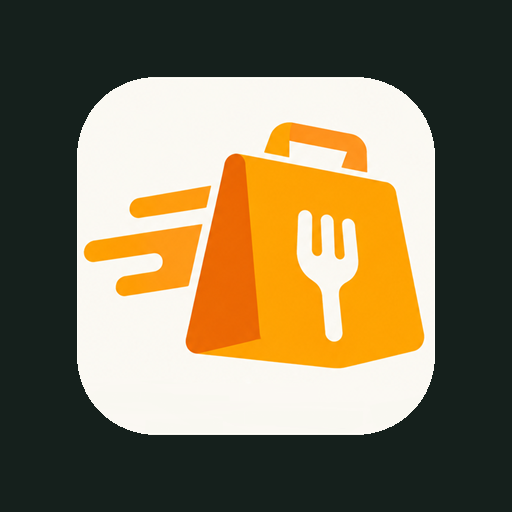
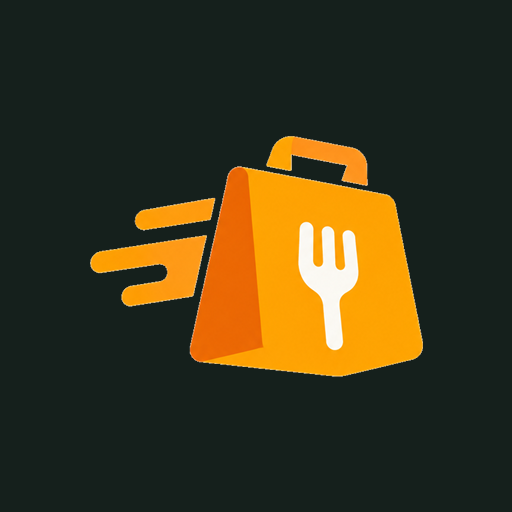
Фикс: maskable-иконки и логотип в шапке

diff --git a/src/components/TopBar.jsx b/src/components/TopBar.jsx
@@ -2,21 +2,46 @@ import { Link } from 'react-router-dom';
 import ThemeToggle from './ThemeToggle.jsx';
 import LangSwitch from './LangSwitch.jsx';
 import { PwaInstallButton } from './InstallBanner.jsx';
+import { ReceiptIcon } from './Icons.jsx';
 import { useT } from '../lib/i18n/store.js';
 
-// Ниже 1024px — тонкая полоска утилитных ссылок. От 1024px — полноценная шапка с логотипом.
+// Ниже 1024px — тонкая полоска: слева логотип-ссылка на главную, справа утилиты.
+// От 1024px — полноценная шапка с логотипом и подписью.
 export default function TopBar() {
   const t = useT();
   return (
     <div className="bg-paper border-b border-line">
-      <div className="flex items-center justify-end gap-2 px-3 py-1.5 text-xs lg:hidden">
+      <div className="flex items-center gap-1 px-3 py-1.5 text-xs lg:hidden">
+        <Link
+          to="/"
+          aria-label={t('topbar.home')}
+          title={t('topbar.home')}
+          className="mr-auto inline-flex h-9 w-9 shrink-0 items-center justify-center transition-opacity hover:opacity-80"
+        >
+          <img src="/symbol.png" alt="" className="h-9 w-9 object-contain" />
+        </Link>
+        {/* На узком экране текст «Мои заказы» не помещается — оставляем иконку
+            с подписью для скринридеров. */}
         <Link
           to="/my-orders"
-          className="inline-flex min-h-[40px] shrink-0 items-center whitespace-nowrap px-1 font-semibold text-muted hover:text-ink transition-colors"
+          aria-label={t('topbar.myOrders')}
+          title={t('topbar.myOrders')}
+          className="inline-flex h-9 w-9 shrink-0 items-center justify-center rounded-full text-muted transition-colors hover:text-ink sm:hidden"
+        >
+          <ReceiptIcon className="h-4 w-4" />
+        </Link>
+        <Link
+          to="/my-orders"
+          className="hidden min-h-[40px] shrink-0 items-center whitespace-nowrap px-1 font-semibold text-muted transition-colors hover:text-ink sm:inline-flex"
         >
           {t('topbar.myOrders')}
         </Link>
-        <PwaInstallButton />
+        {/* На самых узких экранах (320–359px) кнопка установки не помещается в один
+            ряд с логотипом и языками. Установку там предлагает нижний баннер,
+            поэтому в шапке прячем именно её — навигация важнее. */}
+        <div className="shrink-0 max-[359px]:hidden">
+          <PwaInstallButton />
+        </div>
         <LangSwitch />
         <ThemeToggle />
       </div>
@@ -26,7 +51,7 @@ export default function TopBar() {
           to="/"
           className="flex items-center gap-3 font-extrabold text-[31.5px] text-ink tracking-tight hover:opacity-90 transition-opacity"
         >
-          <img src="/symbol.png" alt="Заберу!" className="w-12 h-12 rounded-2xl object-contain" />
+          <img src="/symbol.png" alt="Заберу!" className="w-12 h-12 object-contain" />
           <span>Заберу!</span>
         </Link>
         <div className="flex items-center gap-6">

diff --git a/vite.config.js b/vite.config.js
@@ -14,6 +14,7 @@ export default defineConfig({
         'symbol.png',
         'icon-192.png',
         'icon-512.png',
+        'icon-192-maskable.png',
         'icon-512-maskable.png'
       ],
       workbox: {
@@ -51,11 +52,20 @@ export default defineConfig({
         start_url: '/',
         categories: ['food', 'shopping', 'lifestyle'],
         prefer_related_applications: false,
+        // any и maskable — разные исходники, это важно:
+        // • any — обычная иконка как есть: кремовая подложка и скруглённые края видны.
+        // • maskable — Android сам обрезает картинку по своей маске (круг, squircle и т.п.),
+        //   поэтому фон должен быть непрозрачным до самых краёв, без внутренней карточки,
+        //   а логотип — внутри центрального круга 80% (safe zone), иначе маска срежет края.
         icons: [
-          { src: 'icon-192.png', sizes: '192x192', type: 'image/png' },
-          { src: 'icon-512.png', sizes: '512x512', type: 'image/png' },
-          // Отдельный maskable-файл: Android обрезает иконку по маске, поэтому логотип
-          // там лежит на брендовой подложке и занимает только безопасную зону.
+          { src: 'icon-192.png', sizes: '192x192', type: 'image/png', purpose: 'any' },
+          { src: 'icon-512.png', sizes: '512x512', type: 'image/png', purpose: 'any' },
+          {
+            src: 'icon-192-maskable.png',
+            sizes: '192x192',
+            type: 'image/png',
+            purpose: 'maskable'
+          },
           {
             src: 'icon-512-maskable.png',
             sizes: '512x512',

diff --git a/src/components/LangSwitch.jsx b/src/components/LangSwitch.jsx
@@ -18,7 +18,7 @@ export default function LangSwitch() {
           type="button"
           onClick={() => setLang(l)}
           aria-pressed={lang === l}
-          className={`inline-flex min-h-[40px] items-center px-2.5 rounded-full transition-colors ${
+          className={`inline-flex min-h-[40px] items-center px-2 rounded-full transition-colors ${
             lang === l ? 'bg-primary text-white' : 'text-muted hover:text-ink'
           }`}
         >

diff --git a/src/lib/i18n/kk.js b/src/lib/i18n/kk.js
@@ -3,6 +3,7 @@ export default {
   'theme.darkOn': 'Күңгірт тақырыпты қосу',
 
   'topbar.myOrders': 'Тапсырыстар',
+  'topbar.home': 'Басты бетке',
   'offline.text': 'Желі жоқ — сақталған деректерді көрсетеміз',
 
   'home.title': 'Күтусіз түскі ас',

diff --git a/src/lib/i18n/ru.js b/src/lib/i18n/ru.js
@@ -3,6 +3,7 @@ export default {
   'theme.darkOn': 'Включить тёмную тему',
 
   'topbar.myOrders': 'Мои заказы',
+  'topbar.home': 'На главную',
   'offline.text': 'Нет сети — показываем сохранённые данные',
 
   'home.title': 'Обед без ожидания',

diff --git a/src/lib/i18n/en.js b/src/lib/i18n/en.js
@@ -3,6 +3,7 @@ export default {
   'theme.darkOn': 'Turn on dark theme',
 
   'topbar.myOrders': 'My orders',
+  'topbar.home': 'Go home',
   'offline.text': 'No connection — showing saved data',
 
   'home.title': 'Lunch without the wait',
